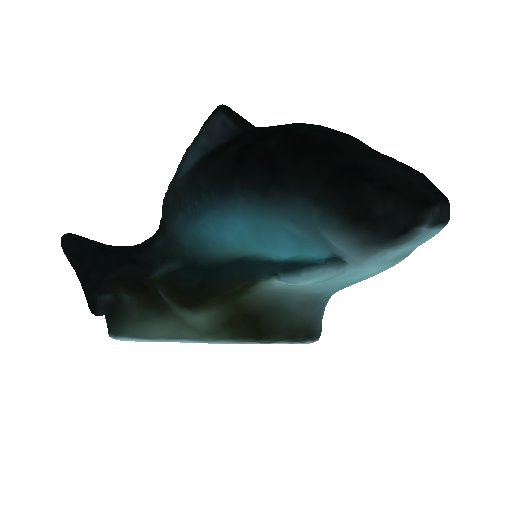
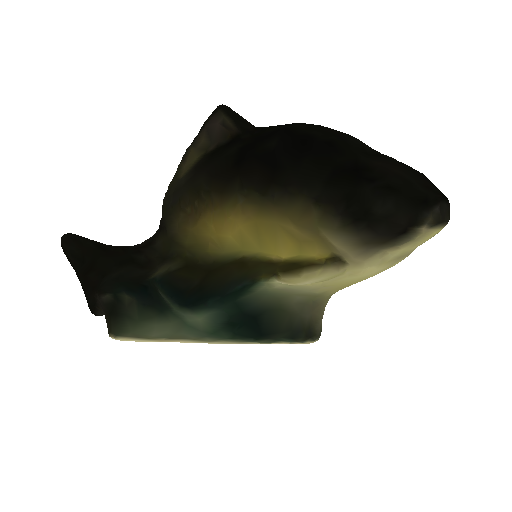
Fix to convert BGR image to RGB format before saving

diff --git a/demo_flat.py b/demo_flat.py
@@ -17,10 +17,7 @@ if __name__ == "__main__":
     img = render(verts2d, faces, vcolors, depth, 'flat')
     
     # convert image from BGR to RGB format
-    # img = cv2.cvtColor(img, cv2.COLOR_BGR2RGB)
-    
-    # show image using pyplot
-    # plt.imshow(img)
+    img = cv2.cvtColor(img.astype('float32'), cv2.COLOR_BGR2RGB)
     
     # convert img colors from range [0,1] to range [0,255] before saving
     cv2.imwrite('flat_shading.png', img * 255)

diff --git a/demo_gouraud.py b/demo_gouraud.py
@@ -16,7 +16,7 @@ if __name__ == "__main__":
     img = render(verts2d, faces, vcolors, depth, 'gouraud')
     
     # convert image from BGR to RGB format
-    # img = cv2.cvtColor(img, cv2.COLOR_BGR2RGB)
+    img = cv2.cvtColor(img.astype('float32'), cv2.COLOR_BGR2RGB)
     
     # convert img colors from range [0,1] to range [0,255] before saving
     cv2.imwrite('gouraud_shading.png', img * 255)
